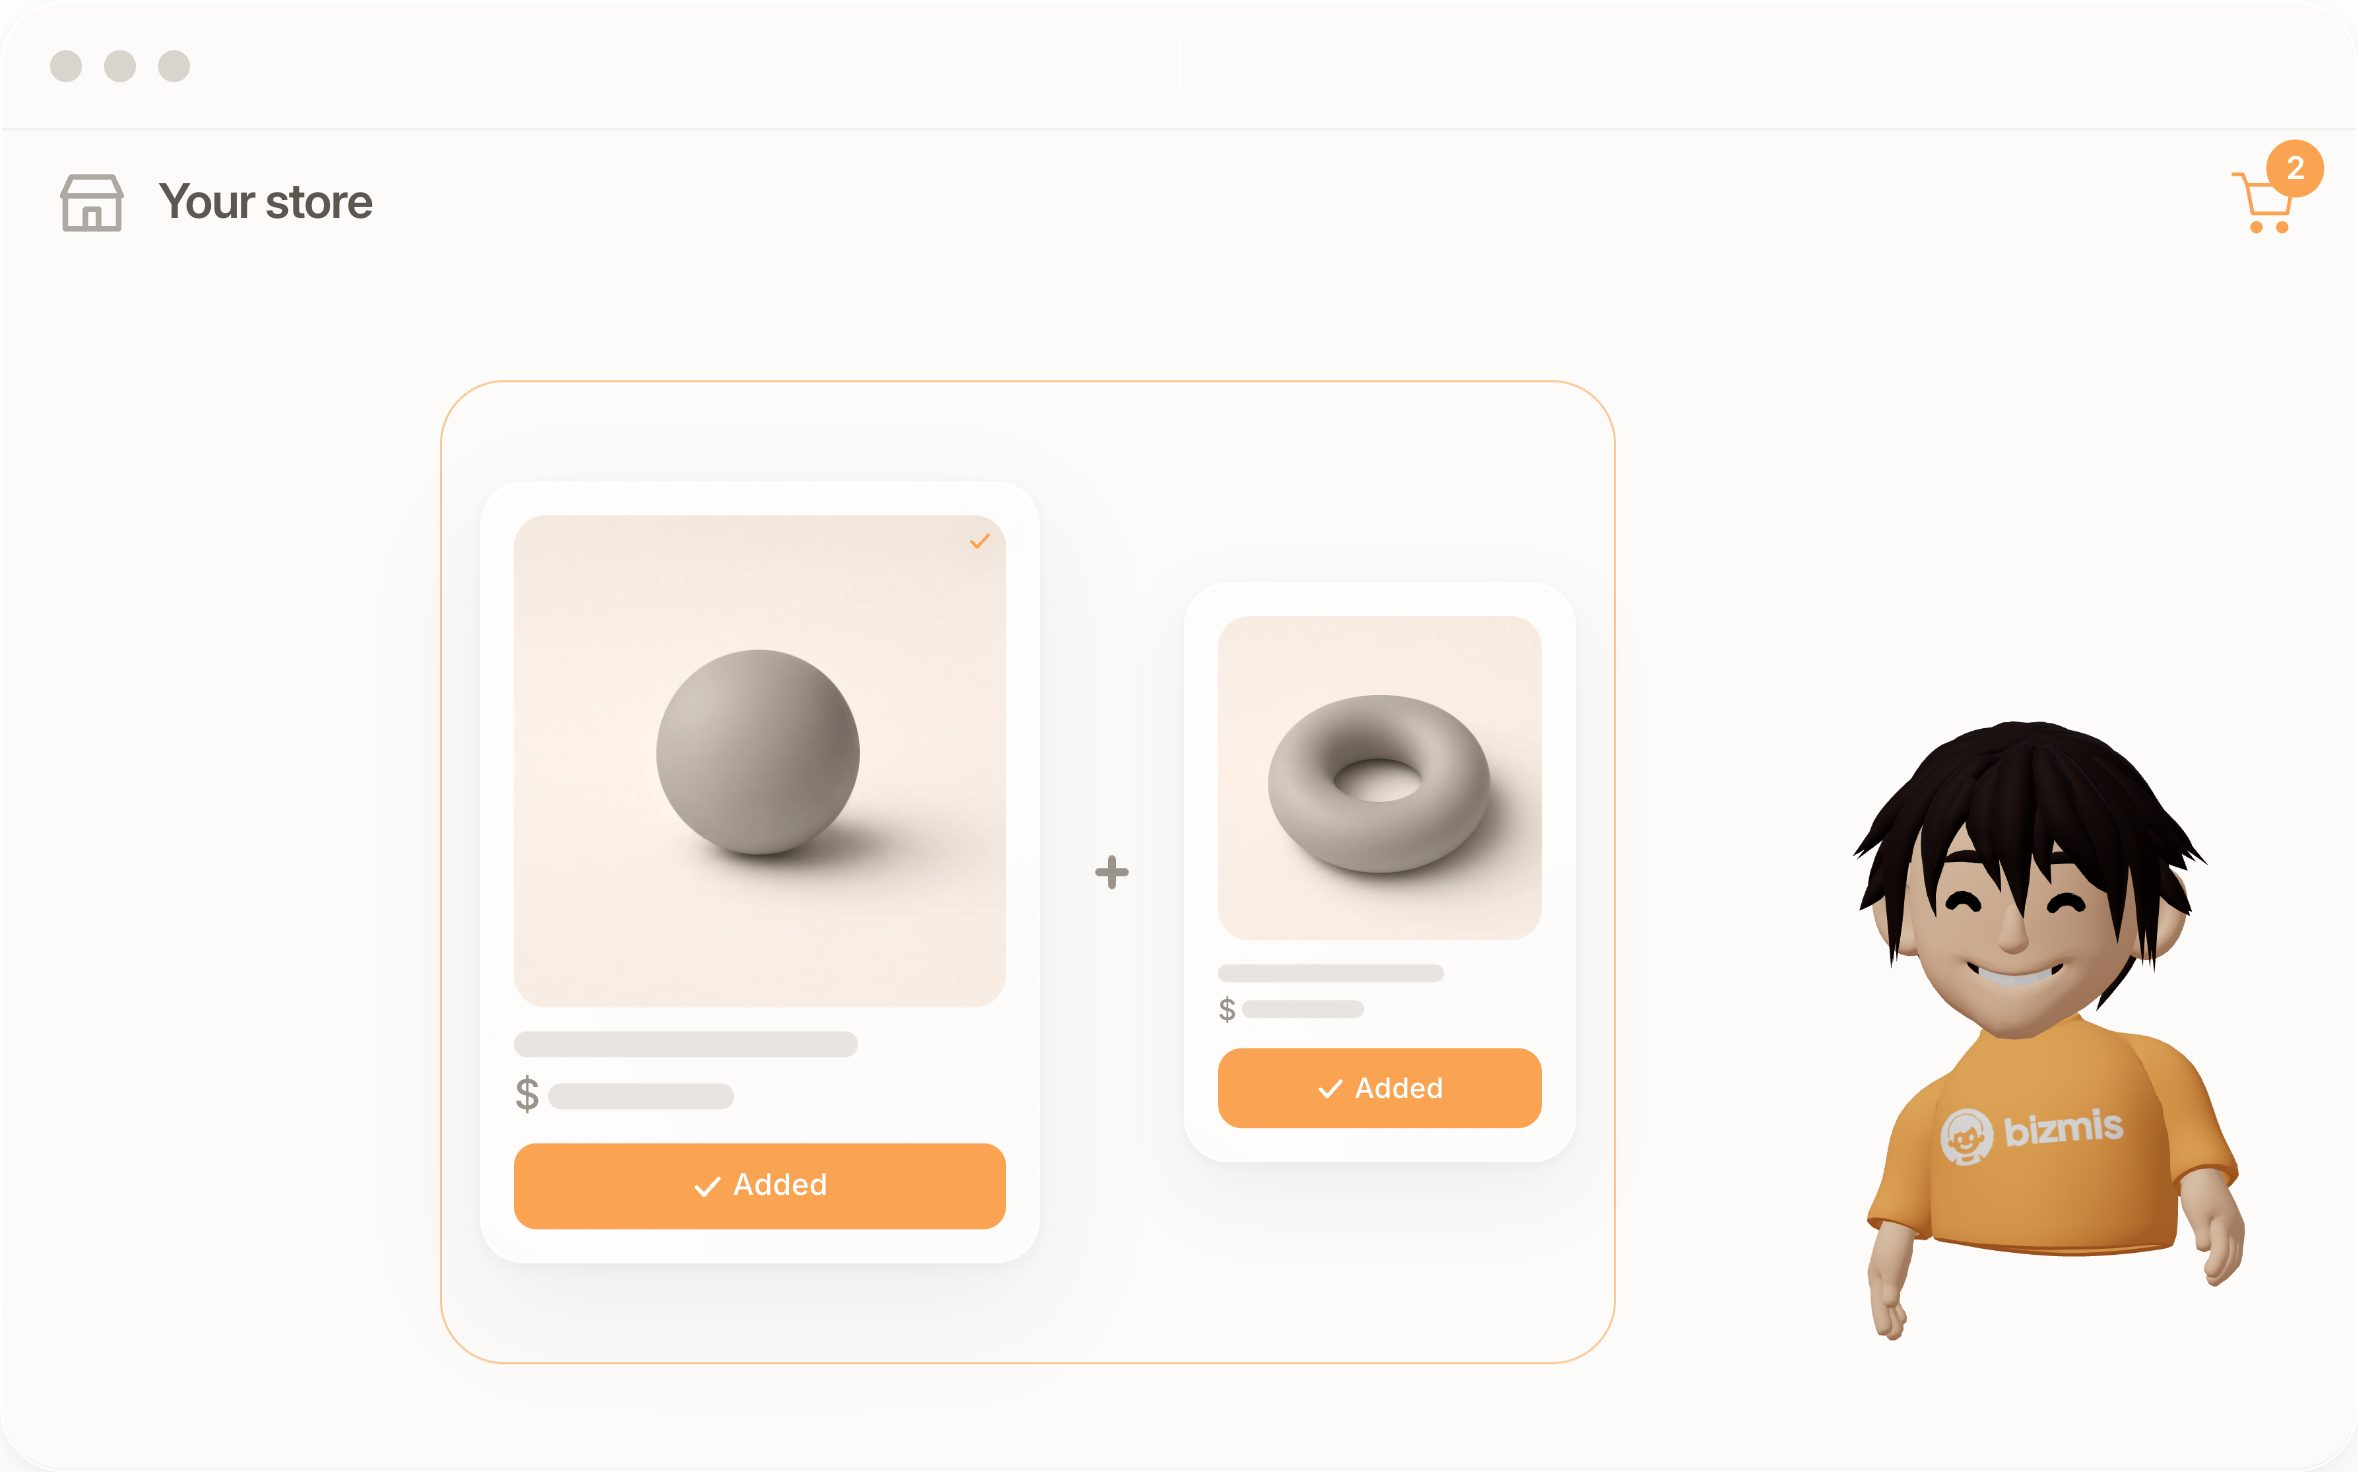
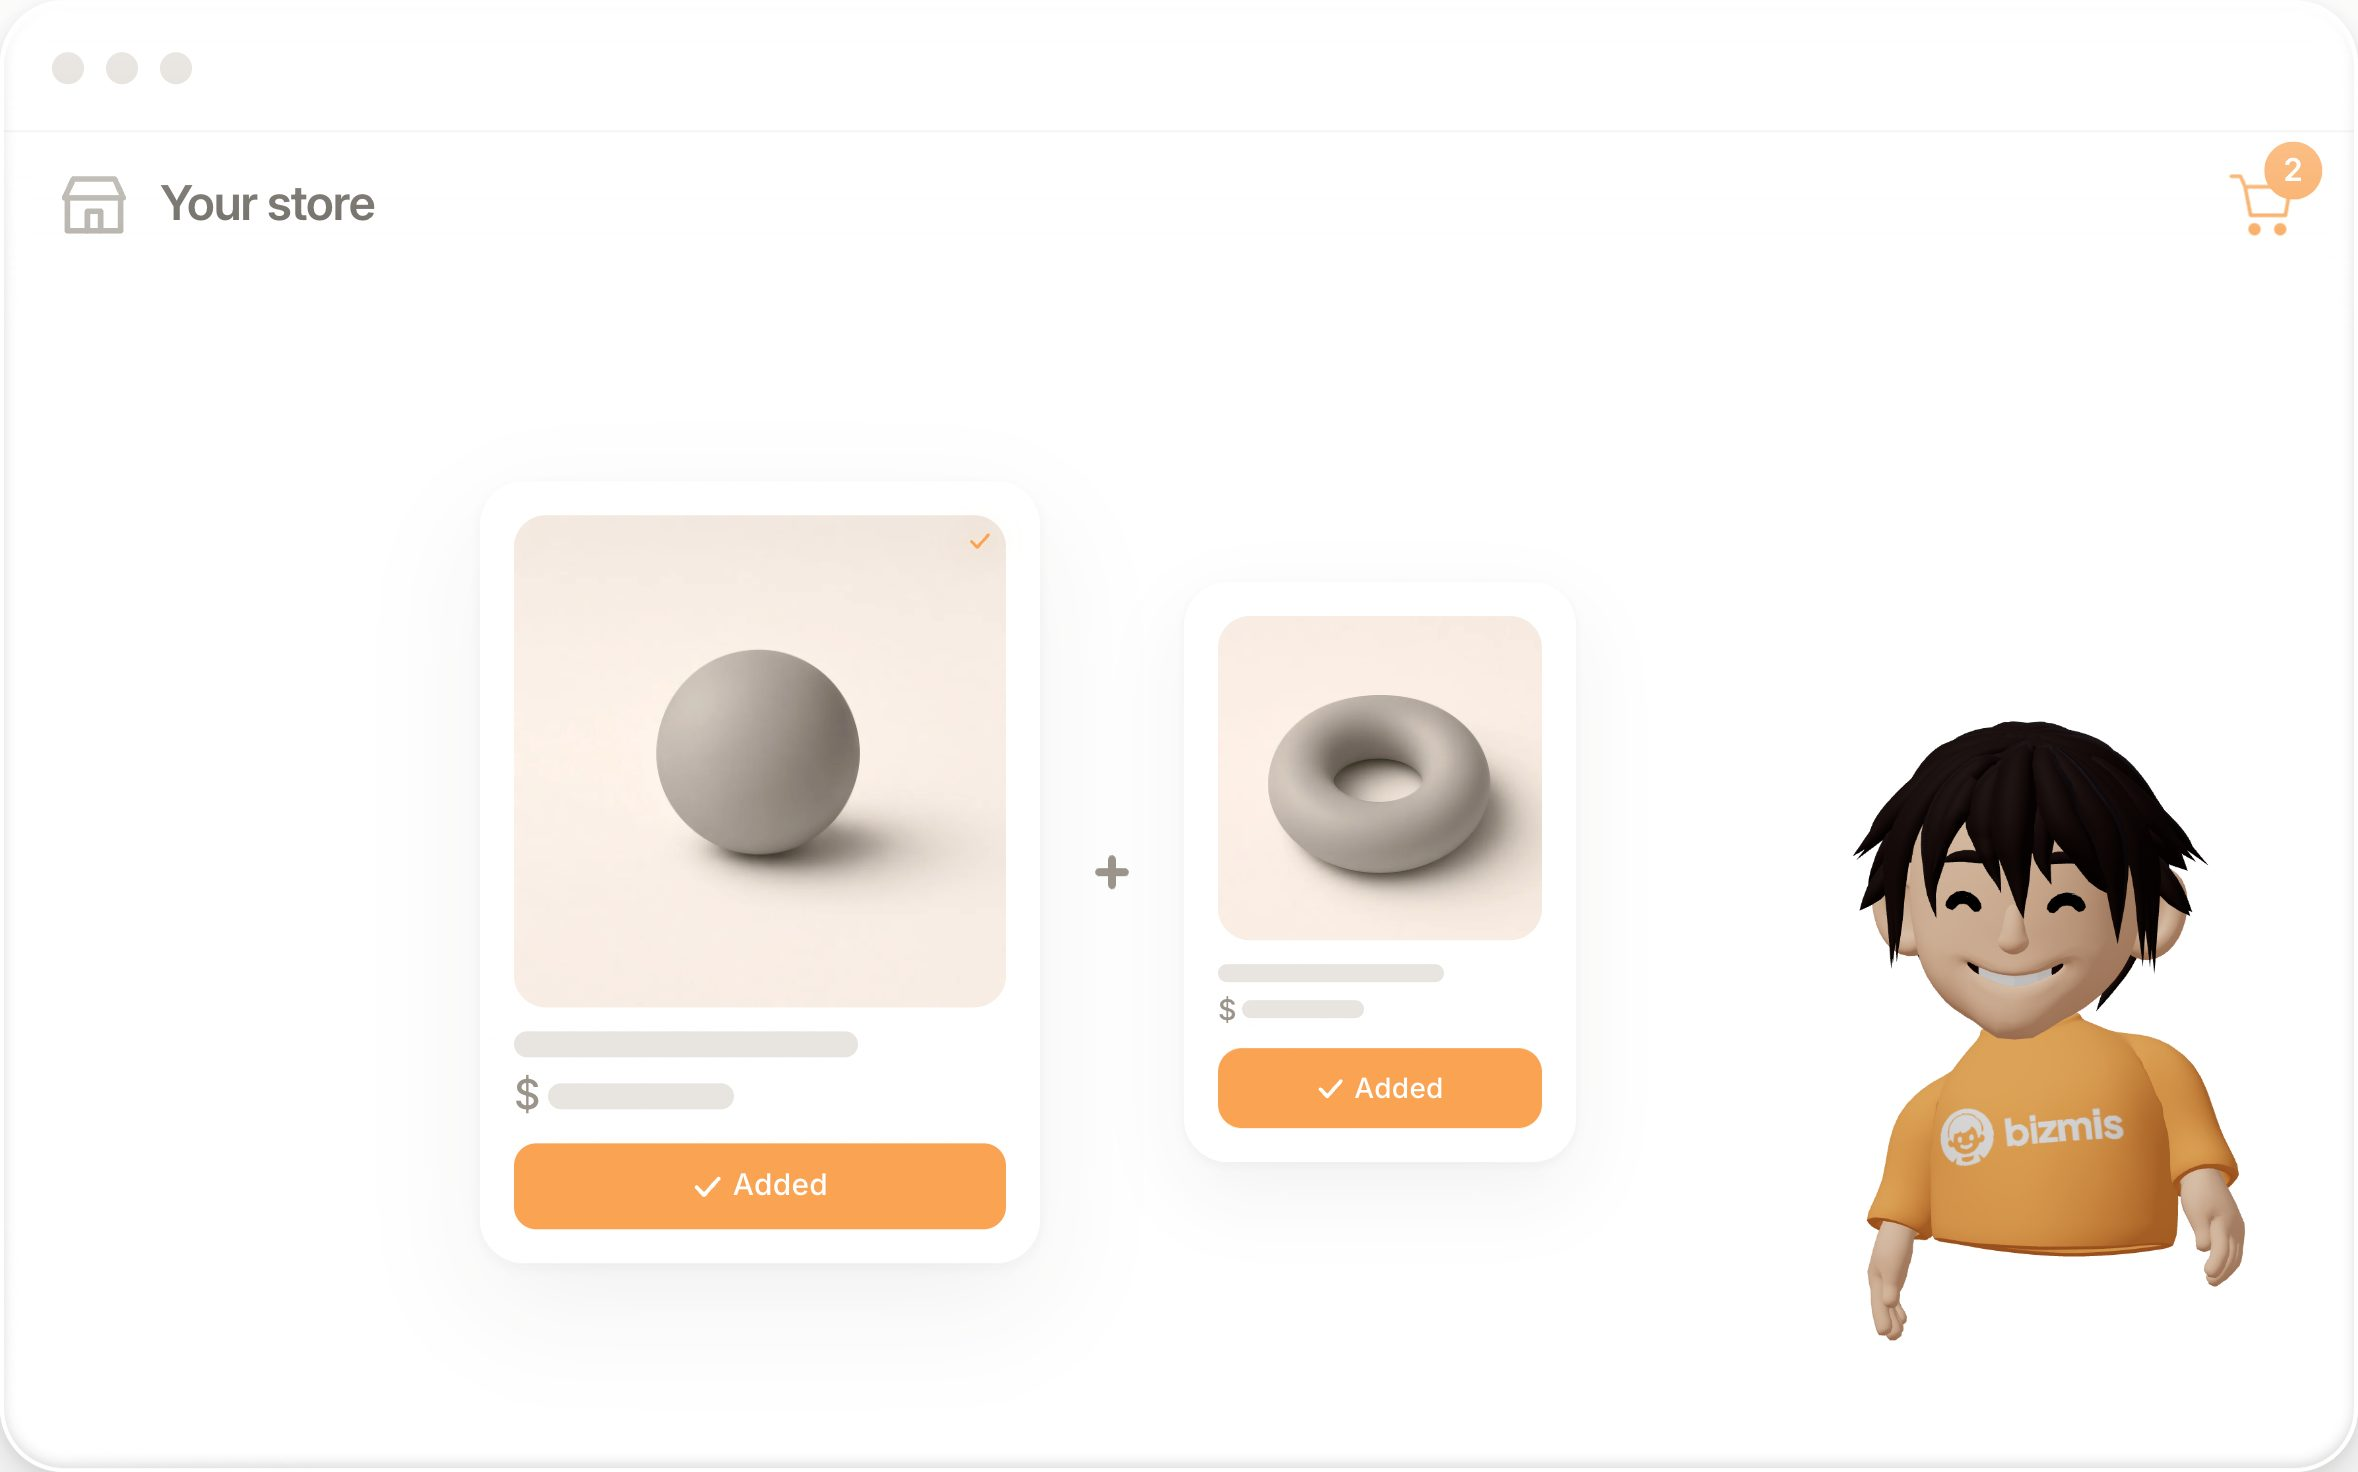
BIZ-407 Swap the cross-sell line for Added, and play the demo stores as a wave.
The bundle no longer draws a box around the two cards, and the extra button reads Added. Demo stores take turns: each one rises fast, holds in the light, then leaves faster.

Changed region(s): [[0.031, 0.125, 0.1548, 0.1562], [0.9288, 0.0938, 0.9907, 0.1562]]

diff --git a/assets/theme.js b/assets/theme.js
@@ -394,6 +394,9 @@
   const PROMO_SEE_CTA_HOLD_MS = 4000;
   const PROMO_SEE_CURSOR_MS = 800;
   const PROMO_SEE_GLIDE_MS = 9800;
+  const PROMO_SEE_WAVE_RISE_MS = 320;
+  const PROMO_SEE_WAVE_HOLD_MS = 1040;
+  const PROMO_SEE_WAVE_FALL_MS = 520;
   const PROMO_SEE_STAIN_MS = 920;
   const PROMO_SEE_STAIN_COUNT = 9;
   const PROMO_SEE_STAIN_BODY_COUNT = 5;
@@ -1152,7 +1155,7 @@
     accessory.append(
       momentPhoto(PROMO_MOMENT_CARD_COUNT),
       momentMeta(PROMO_MOMENT_CARD_COUNT),
-      momentAdd({ label: 'Add to cart', done: 'Added to cart' }),
+      momentAdd({ label: 'Add to cart', done: 'Added' }),
     );
     board.appendChild(accessory);
     board.appendChild(momentCompare());
@@ -2456,6 +2459,19 @@
     return `#${channel(red)}${channel(green)}${channel(blue)}`;
   }
 
+  function waveSample(elapsed) {
+    const rise = PROMO_SEE_WAVE_RISE_MS;
+    const hold = PROMO_SEE_WAVE_HOLD_MS;
+    const fall = PROMO_SEE_WAVE_FALL_MS;
+    if (elapsed <= rise) {
+      const u = elapsed / rise;
+      return { amount: Math.sin(u * Math.PI / 2), travel: u * 0.5 };
+    }
+    if (elapsed <= rise + hold) return { amount: 1, travel: 0.5 };
+    const u = Math.min(1, (elapsed - rise - hold) / fall);
+    return { amount: Math.cos(u * Math.PI / 2), travel: 0.5 + u * 0.5 };
+  }
+
   function glideEase(linear) {
     const t = Math.min(1, Math.max(0, linear));
     return t * t * (3 - 2 * t);
@@ -3323,6 +3339,13 @@
       const stacked = promoVideoConfig.cta !== 'demo';
       this.root.classList.add('is-see', 'is-see-in', 'is-see-docked', 'is-see-row', 'is-see-landed');
       if (stacked) this.root.classList.add('is-see-stack');
+      else {
+        this.root.classList.add('is-see-wave');
+        this.paintWave(this.landIndex, 1, 0.5);
+        const store = this.stores[this.landIndex];
+        if (store) promoWidget.applyStoreLook(store);
+        return;
+      }
       this.highlightStore(this.seeEndIndex(), true, true);
       if (stacked && promoVideoConfig.cta !== 'none') {
         this.carouselTrack?.querySelectorAll('.promo-opening__slide').forEach((slide) => {
@@ -3573,6 +3596,7 @@
       const stacked = promoVideoConfig.cta !== 'demo';
       this.root.classList.add('is-see');
       if (stacked) this.root.classList.add('is-see-stack');
+      else this.root.classList.add('is-see-wave');
       window.requestAnimationFrame(() => {
         this.root.classList.add('is-see-in', 'is-see-docked', 'is-see-row');
       });
@@ -3591,8 +3615,8 @@
           });
           return;
         }
-        this.playStoreGlide(() => {
-          window.setTimeout(() => this.depart(), PROMO_SEE_CTA_HOLD_MS);
+        this.playStoreWave(() => {
+          window.setTimeout(() => this.depart(), 400);
         });
       }, 360);
     }
@@ -3630,6 +3654,65 @@
         }, lookMs);
       };
       step();
+    }
+
+    playStoreWave(onDone) {
+      const slides = this.carouselTrack
+        ? [...this.carouselTrack.querySelectorAll('.promo-opening__slide')]
+        : [];
+      if (!slides.length) {
+        onDone();
+        return;
+      }
+      this.stopGlide();
+      if (this.carouselTrack) {
+        this.carouselTrack.style.transition = 'none';
+        this.carouselTrack.style.transform = 'none';
+      }
+      const cycle = PROMO_SEE_WAVE_RISE_MS + PROMO_SEE_WAVE_HOLD_MS + PROMO_SEE_WAVE_FALL_MS;
+      const started = performance.now();
+      let shown = -1;
+      const frame = (now) => {
+        const elapsed = now - started;
+        if (elapsed >= cycle * slides.length) {
+          this.paintWave(-1, 0, 0);
+          this.glideFrame = 0;
+          onDone();
+          return;
+        }
+        const index = Math.min(slides.length - 1, Math.floor(elapsed / cycle));
+        const sample = waveSample(elapsed - index * cycle);
+        this.paintWave(index, sample.amount, sample.travel);
+        if (index !== shown) {
+          shown = index;
+          const store = this.stores[index];
+          if (store) this.arriveStore(store);
+        }
+        this.glideFrame = window.requestAnimationFrame(frame);
+      };
+      this.glideFrame = window.requestAnimationFrame(frame);
+    }
+
+    paintWave(index, amount, travel) {
+      const slides = this.carouselTrack
+        ? [...this.carouselTrack.querySelectorAll('.promo-opening__slide')]
+        : [];
+      const wave = Math.min(1, Math.max(0, amount));
+      this.root.style.setProperty('--see-wave', wave.toFixed(4));
+      slides.forEach((slide, slideIndex) => {
+        const on = slideIndex === index && wave > 0.01;
+        slide.classList.toggle('is-wave', on);
+        slide.style.opacity = on ? wave.toFixed(4) : '0';
+        slide.style.setProperty('--wave', on ? wave.toFixed(4) : '0');
+        slide.style.setProperty('--wave-x', on ? travel.toFixed(4) : '0.5');
+        slide.style.zIndex = on ? '2' : '1';
+        slide.style.transform = on ? `scale(${(0.94 + wave * 0.06).toFixed(4)})` : 'none';
+      });
+      const store = this.stores[index];
+      const glow = this.ensureClerkGlow();
+      if (!glow) return;
+      if (store) glow.style.setProperty('--promo-clerk-glow', store.accent || 'transparent');
+      glow.style.opacity = wave.toFixed(4);
     }
 
     playStoreGlide(onDone) {
@@ -5670,6 +5753,8 @@
         });
         if (phase !== 'hero') root.classList.add('is-see-docked', 'is-see-row');
         if (phase === 'landed') root.classList.add('is-see-landed');
+        const wave = promoVideoConfig.cta === 'demo';
+        if (wave && phase !== 'hero') root.classList.add('is-see-wave');
 
         const midIndex = Math.min(2, Math.max(0, this.stores.length - 1));
         const highlight = phase === 'hero'
@@ -5678,9 +5763,16 @@
             ? 0
             : phase === 'roulette'
               ? midIndex
-              : this.seeEndIndex();
-        if (highlight >= 0) this.highlightStore(highlight, phase === 'landed', true);
-        if (phase === 'landed' && seeCtaCopy()) root.classList.add('is-cta-aim');
+              : this.landIndex;
+        if (wave && highlight >= 0) {
+          const rising = phase === 'row';
+          this.paintWave(highlight, rising ? 0.35 : 1, rising ? 0.18 : 0.5);
+        } else if (highlight >= 0) {
+          this.highlightStore(highlight, phase === 'landed', true);
+        }
+        if (phase === 'landed' && !wave && promoVideoConfig.cta !== 'none' && seeCtaCopy()) {
+          root.classList.add('is-cta-aim');
+        }
 
         if (phase === 'hero') {
           root.classList.add('is-moments');

diff --git a/assets/promo-ad.css b/assets/promo-ad.css
@@ -3273,23 +3273,10 @@ html.is-promo-opening.is-promo-depart .promo-opening {
   opacity: 0;
 }
 
-.is-pose-bundle .promo-moments__outline {
-  z-index: 3;
-  left: calc(50% - 76px);
-  top: 50%;
-  width: 588px;
-  height: 492px;
-  margin: 0;
-  border-radius: 32px;
-  border: 1px solid var(--bizmis-primary-ring);
-  box-shadow: none;
-  background: none;
-  opacity: 1;
-  transform: translate(-50%, -50%);
-}
-
+.is-pose-bundle .promo-moments__outline,
 .is-pose-bundle:not(.is-settled):not(.is-reduced) .promo-moments__outline {
-  animation: promo-moments-bundle-outline 420ms cubic-bezier(0.22, 1, 0.36, 1) 80ms both;
+  opacity: 0;
+  animation: none;
 }
 
 @keyframes promo-moments-bundle-outline {
@@ -4461,6 +4448,84 @@ html.is-promo-opening.is-promo-depart .promo-opening {
 
 .promo-opening.is-see-stack .promo-opening__slide.is-lift {
   animation: promo-stack-lift 560ms cubic-bezier(0.45, 0, 0.9, 0.55) forwards;
+}
+
+.promo-opening.is-see-wave.is-see-row .promo-opening__stores {
+  width: min(68rem, calc(100cqw - 22rem));
+}
+
+.promo-opening.is-see-wave .promo-opening__carousel {
+  perspective: none;
+  overflow: visible;
+}
+
+.promo-opening.is-see-wave .promo-opening__carousel-track {
+  display: grid;
+  justify-items: center;
+  transform: none !important;
+}
+
+.promo-opening.is-see-wave .promo-opening__slide {
+  grid-area: 1 / 1;
+  width: 100%;
+  margin: 0;
+  opacity: 0;
+  transform-origin: center center;
+}
+
+.promo-opening.is-see-wave .promo-opening__slide-meta {
+  gap: 0.35rem;
+  margin-bottom: 1.1rem;
+}
+
+.promo-opening.is-see-wave .promo-opening__slide-sector {
+  font-size: clamp(2.6rem, 4.6vw, 4.4rem);
+}
+
+.promo-opening.is-see-wave .promo-opening__slide-name {
+  font-size: clamp(1.05rem, 1.6vw, 1.45rem);
+  letter-spacing: 0.16em;
+}
+
+.promo-opening.is-see-wave .promo-opening__slide-card {
+  box-shadow:
+    0 0 calc(90px * var(--wave, 0)) color-mix(in srgb, var(--promo-store-accent) calc(var(--wave, 0) * 62%), transparent),
+    0 30px 70px color-mix(in srgb, var(--ad-ink) 12%, transparent);
+}
+
+.promo-opening.is-see-wave .promo-opening__slide-card::after {
+  content: "";
+  position: absolute;
+  inset: 0;
+  z-index: 2;
+  pointer-events: none;
+  background: linear-gradient(
+    104deg,
+    transparent 8%,
+    color-mix(in srgb, white calc(var(--wave, 0) * 78%), transparent) 48%,
+    transparent 74%
+  );
+  transform: translateX(calc((var(--wave-x, 0.5) - 0.5) * 80%));
+  mix-blend-mode: soft-light;
+}
+
+.promo-opening.is-see-wave .promo-opening__slide-glow {
+  opacity: var(--wave, 0);
+  background: radial-gradient(
+    circle at 50% 40%,
+    color-mix(in srgb, var(--promo-store-accent) calc(var(--wave, 0) * 85%), white),
+    transparent 68%
+  );
+  filter: blur(10px);
+}
+
+.promo-opening.is-see-wave .promo-opening__slide-hero {
+  filter: brightness(calc(0.55 + var(--wave, 0) * 0.85)) saturate(calc(0.8 + var(--wave, 0) * 0.45));
+}
+
+.promo-opening.is-see-wave.is-see-row .promo-opening__clerk-glow {
+  opacity: var(--see-wave, 0);
+  filter: blur(calc(36px + var(--see-wave, 0) * 40px));
 }
 
 .promo-opening__naked-cta {
